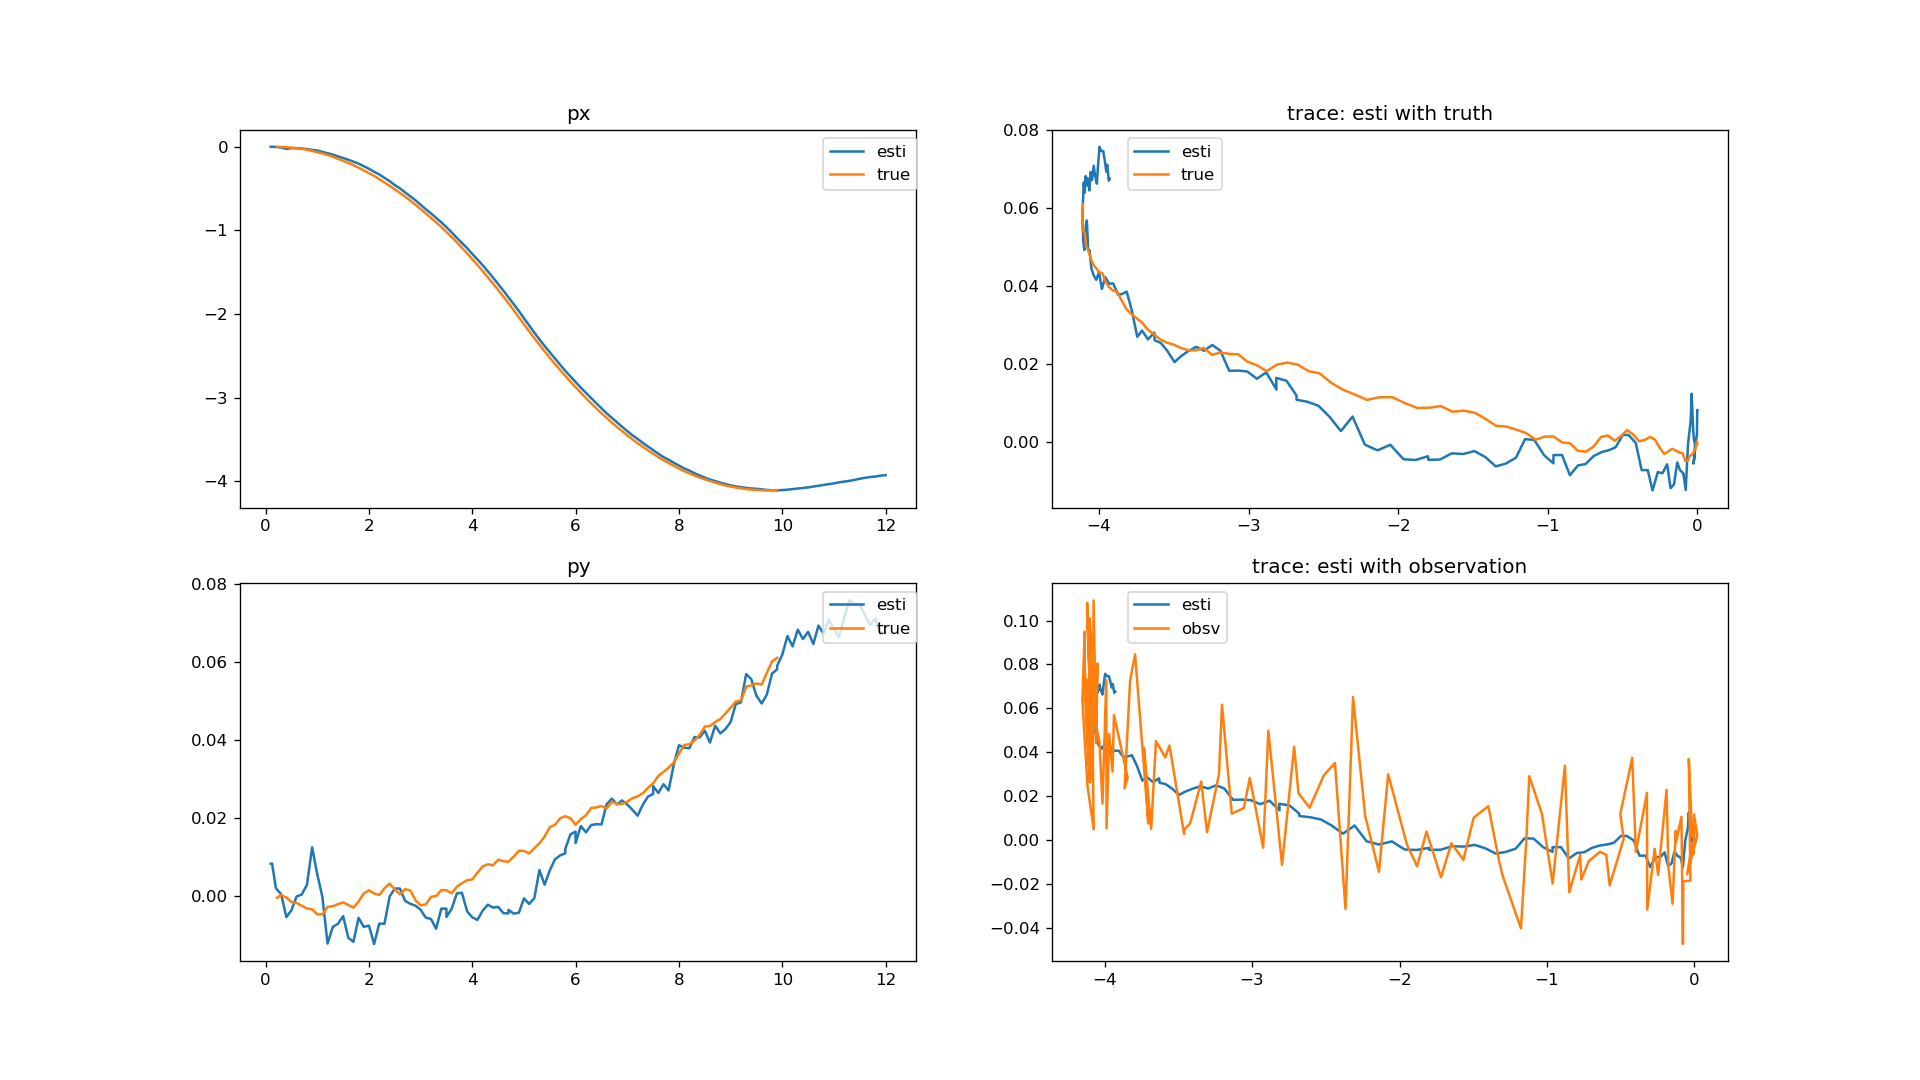
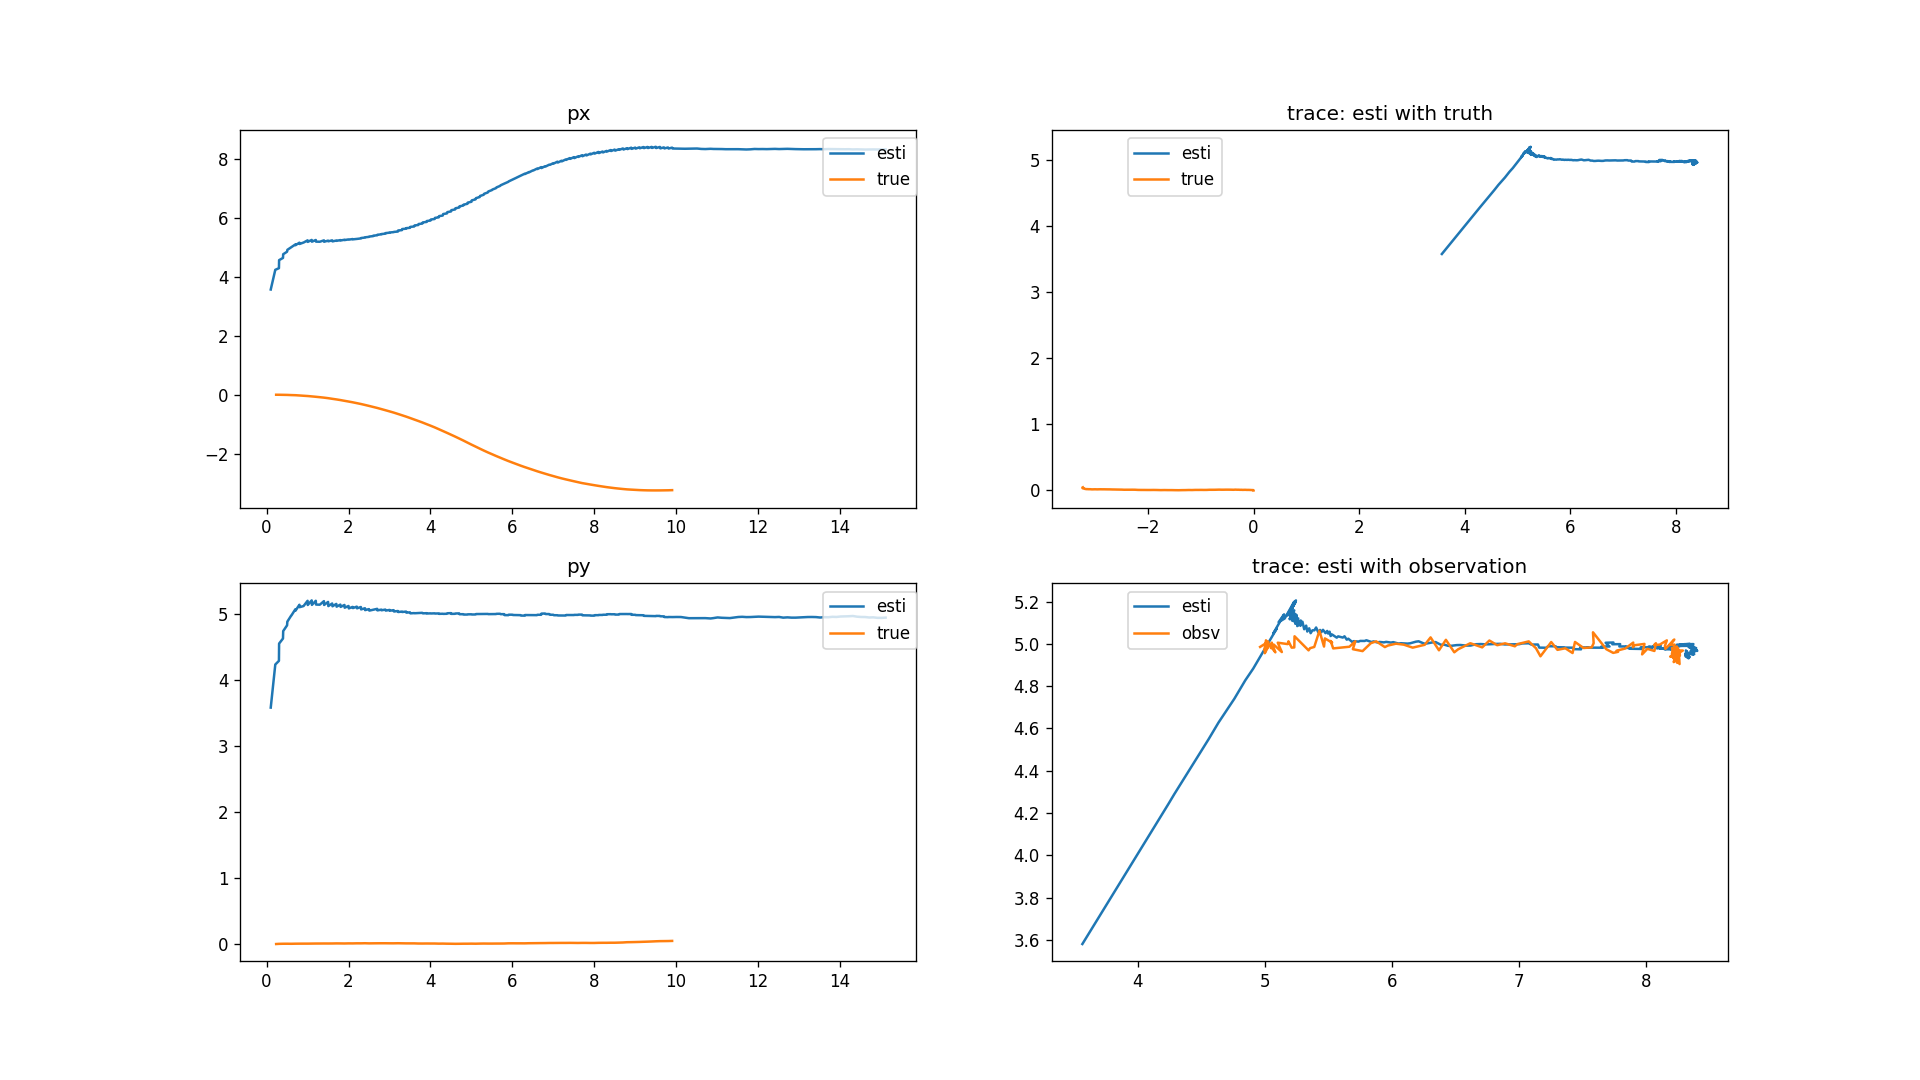
Complete all the code. The model runs well, but there's still some problem with the fig in Kalman filter.

diff --git a/src/cylinder_robot/script/perception.py b/src/cylinder_robot/script/perception.py
@@ -67,30 +67,36 @@ class KalmanFilter(object):
     def _predict_Step(self, ctrl_time):
         dt = ctrl_time - self.t
         self.t = ctrl_time
-        
+        Atilde, Btilde, Sigma_w_tilde = self._discretization_Func(dt)
 
-
+        self.x = np.dot(Atilde, self.x) + np.dot(Btilde, self.u)
+        self.P = np.dot(np.dot(Atilde, self.P), Atilde.T) + self.Sigma_w
 
     # correction step
     def _correction_Step(self, y):
-        innovation = 
-        
-
-
+        innovation = y - np.dot(self.C, self.x)
+        S = np.dot(np.dot(self.C, self.P), self.C.T) + self.Sigma_v
+        K = np.dot(np.dot(self.P, self.C.T), lnr.inv(S))            # Kalman gain
+        self.x = self.x + np.dot(K, innovation)
+        self.P = self.P - np.dot(np.dot(K, self.C), self.P)
+    
 
     # when getting the control signal, execution the predict step, update the control signal
     def control_moment(self, u_new, time_now):
-        
+        self.u = u_new
+        self._predict_Step(time_now)
 
 
     # when getting the observe info, execution the predict step, and then execution the correction step
     def observe_moment(self, y_new, time_now):
-        
+        self._predict_Step(time_now)
+        self._correction_Step(y_new)
 
     ## ==========================================================================  ^^^^^^^^^^
     ## ===================================== Edit above =====================================
 class Localization(object):
     def __init__(self):
+        self.name = 'cylinderRobot'
         # config the subscribe information
         rospy.Subscriber('/robot/control', Twist, self.callback_control)
         rospy.Subscriber('/robot/observe', LaserScan, self.callback_observe)
@@ -124,12 +130,13 @@ class Localization(object):
     ## ================================ Edit below here ================================ vvvvvvvvvvv
     def callback_control(self, twist):
         # extract control signal from message
-        
+        u_control = np.zeros([2,1])
+        u_control[0] = twist.linear.x
+        u_control[1] = twist.angular.z
+        current_time = rospy.get_time()
 
-        
         # call control moment function in Kalman filter
-        
-        
+        self.kf.control_moment(u_control, current_time)
 
         # save data for visualization
         self.x_esti_save.append(self.kf.x)
@@ -137,14 +144,19 @@ class Localization(object):
 
     def callback_observe(self, laserscan):
         # extract observe signal from message
-        
-        
+        y = np.zeros([2,1])
 
-        
+        # # Check the length of laserscan.ranges
+        # num_ranges = len(laserscan.ranges)
+        # print("Number of laser ranges:", num_ranges)
+
+        y[0] = laserscan.ranges[0]
+        y[1] = laserscan.ranges[1]
+        current_time = rospy.get_time()
+
         # call observe moment function in Kalman filter
+        self.kf.observe_moment(y, current_time)
         
-        
-
         # save data for visualzation
         self.x_esti_save.append(self.kf.x)
         self.x_esti_time.append(current_time)
@@ -211,7 +223,7 @@ class Localization(object):
 
 
 
-        fig_path = rospkg.RosPack().get_path('cylinder_robot')+"/"
+        fig_path = rospkg.RosPack().get_path('cylinder_robot')+"/figs/"
         fig_x.savefig(fig_path+'fig_x.png', dpi=120)
         print("Visualization Complete.")
 

diff --git a/src/cylinder_robot/script/driver.py b/src/cylinder_robot/script/driver.py
@@ -20,14 +20,6 @@ class Driver(object):
         ## ===================================== Edit bellow =====================================
         ## ==========================================================================   vvvvvvvvvv
 
-        # Define publisher object.  Publish the state of robot to topic "/gazebo/set_model_state"
-        #   message type is ModelState
-        self.pub = rospy.Publisher(...)
-        # Define subscriber object. Subscrip the signal from  topic  "/robot/control" sent by teleop
-        #   message type is Twist
-        #   set the callback function as self.callback_control
-        rospy.Subscriber(...)
-
         # member variable saving system state.
         self.state = np.zeros([4,1])    
         # state = [ vx; px; vy; py ]
@@ -35,8 +27,8 @@ class Driver(object):
         #   cov[w(t), w(t)] = Sigma_w
 
         # Define matrix of continuous system:  A, B (by numpy).
-        self.A = ...
-        self.B = ...
+        self.A = np.array([[0, 1, 0, 0], [0, 0, 0, 0], [0, 0, 0, 1], [0, 0, 0, 0]])
+        self.B = np.array([[0, 0], [1/self.mass, 0], [0, 0], [0, 1/self.mass]])
 
         ## ==========================================================================  ^^^^^^^^^^
         ## ===================================== Edit above =====================================
@@ -51,9 +43,9 @@ class Driver(object):
             u = np.zeros([2,1])
             u[0] = twist.linear.x
             u[1] = twist.angular.z
-	    if u[0] ==0 and self.state[1,0]==0 and self.state[3,0]==0:
-		return 0
-	    else:
+            if u[0] == 0 and self.state[1,0] == 0 and self.state[3,0] == 0:
+                return 0
+            else:
                 self.state = self.forward_dynamics(u, dt)
                 self.sendStateMsg()
 
@@ -73,8 +65,26 @@ class Driver(object):
 
 
         # Please implementation the discretization function here
+        Atilde =  np.array([
+            [1, 0, 0, 0],
+            [dt, 1, 0, 0],
+            [0, 0, 1, 0],
+            [0, 0, dt, 1]
+        ])
 
+        Btilde = np.array([
+            [dt/self.mass, 0],
+            [dt**2/(2*self.mass), 0],
+            [0, dt/self.mass],
+            [0, dt**2/(2*self.mass)]
+        ])
 
+        Sigma_w_tilde = np.array([
+            [dt*self.Sigma_w[0, 0], dt**2/2*self.Sigma_w[0, 0], 0, 0],
+            [dt**2/2*self.Sigma_w[0, 0], dt*self.Sigma_w[1, 1]+dt**3/3*self.Sigma_w[0, 0], 0, 0],
+            [0, 0, dt*self.Sigma_w[2, 2], dt**2/2*self.Sigma_w[2, 2]],
+            [0, 0, dt**2/2*self.Sigma_w[2, 2], dt*self.Sigma_w[3, 3]+dt**3/3*self.Sigma_w[2, 2]]
+        ])
         ## ==========================================================================  ^^^^^^^^^^
         ## ===================================== Edit above =====================================
         return Atilde, Btilde, Sigma_w_tilde
